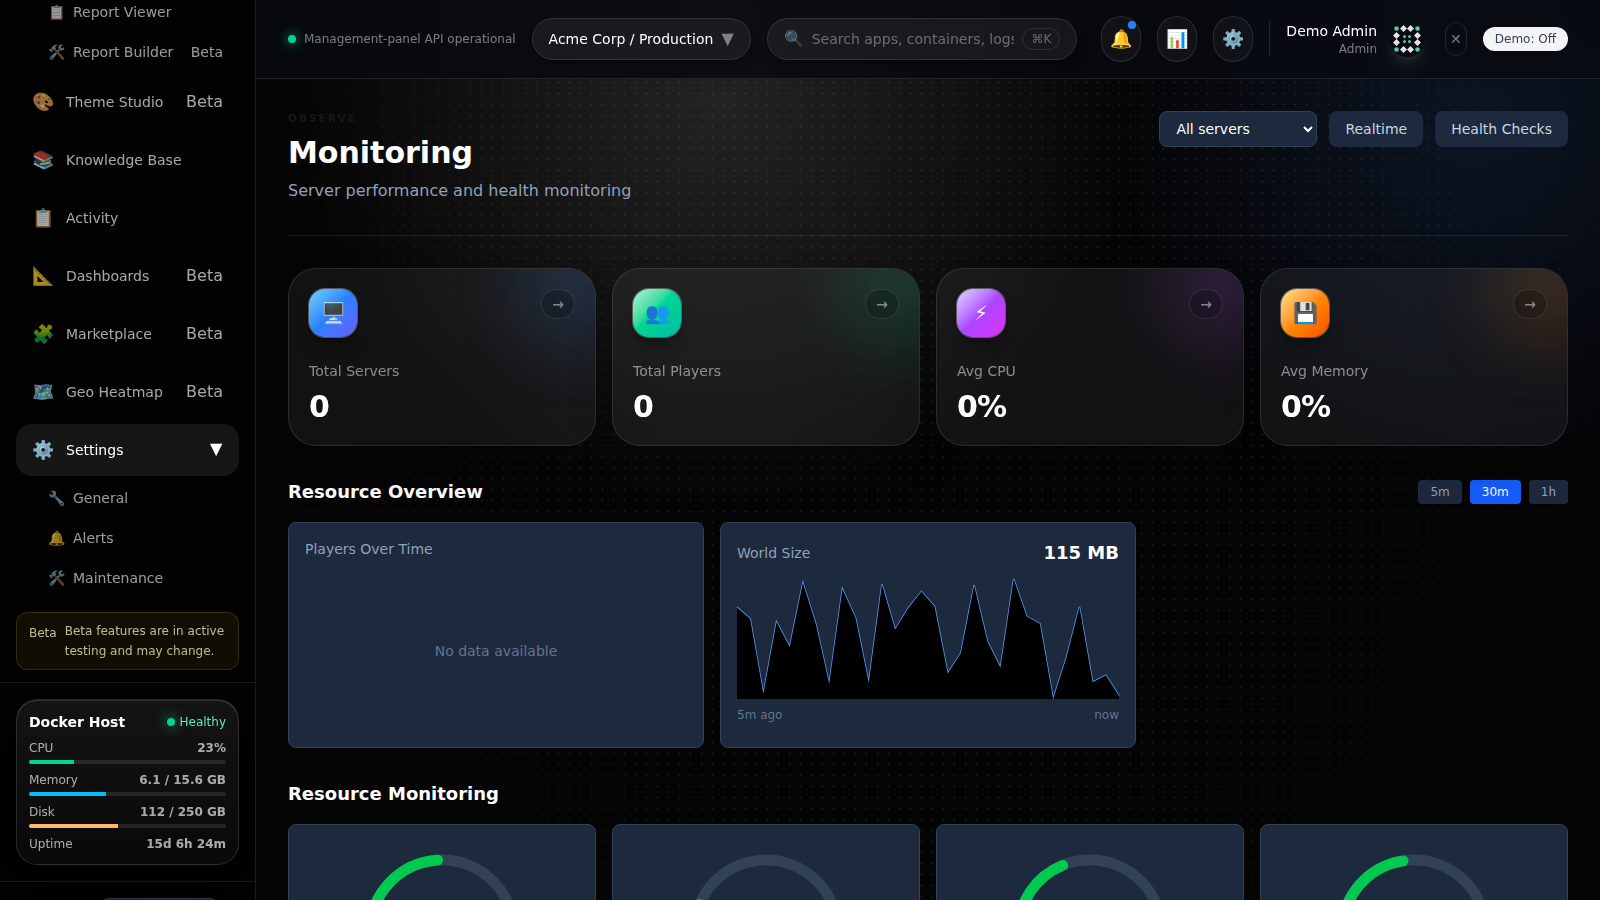
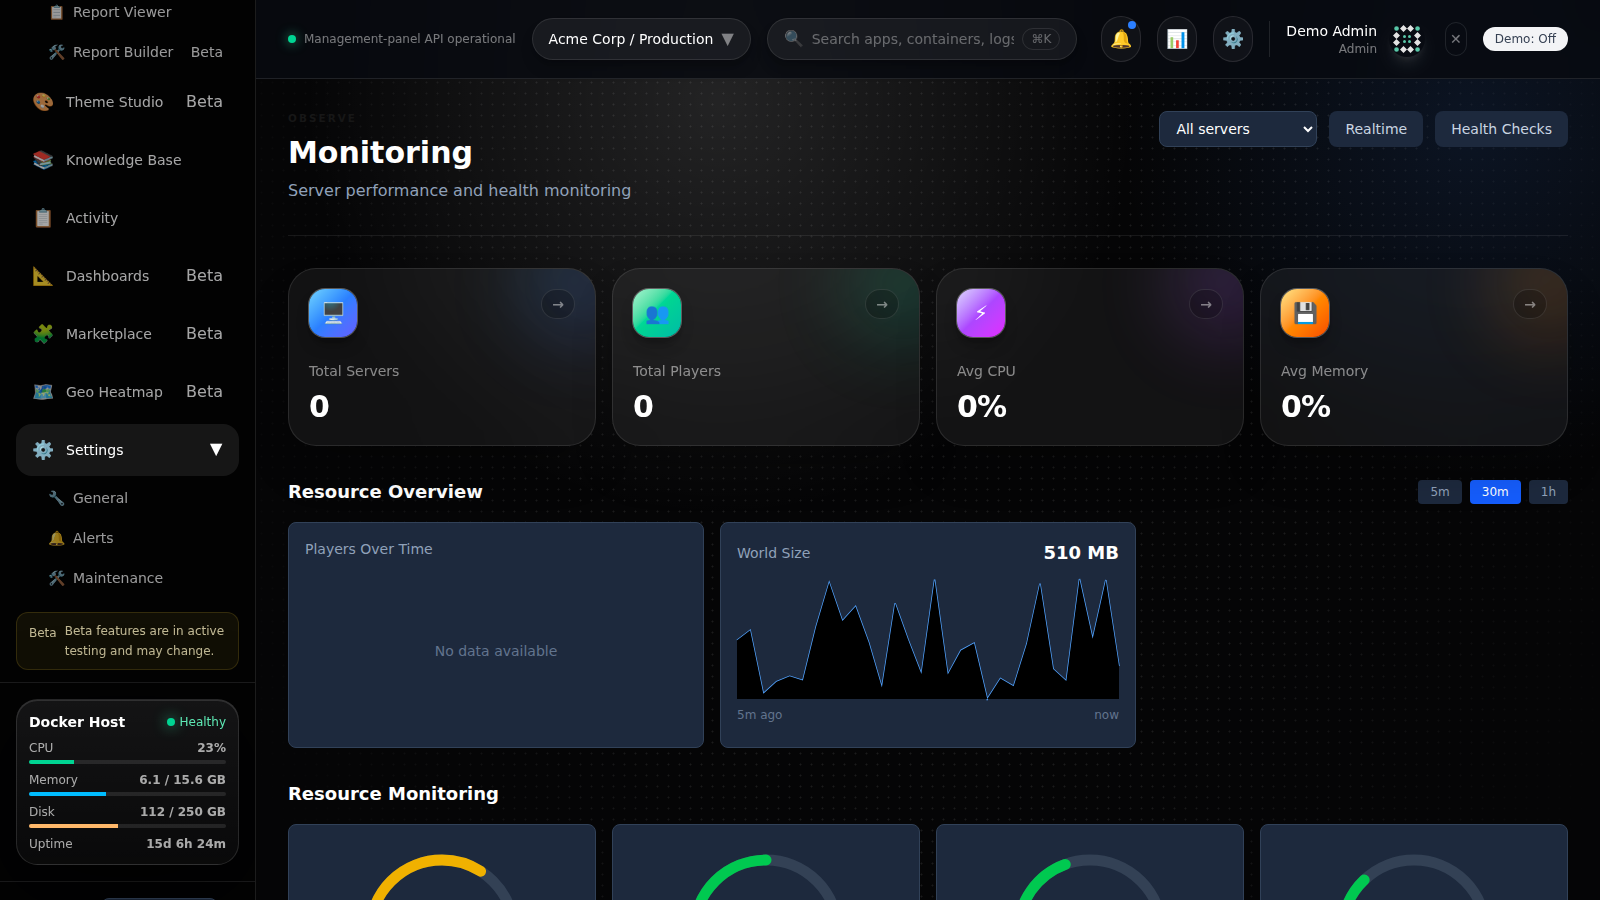
fun(welle-4): Chaos und Simulation mit Prod-Guard (10 Features, neue … (#471)
* fun(welle-4): Chaos und Simulation mit Prod-Guard (10 Features, neue Dateien only)

* docs(screenshots): refresh panel captures [skip ci]

* docs(screenshots): refresh panel captures [skip ci]

---------

diff --git a/services/management-panel/src/fun/wave4.ts b/services/management-panel/src/fun/wave4.ts
@@ -1,0 +1,22 @@
+// Welle 4: Widget-Deskriptoren (reine Daten, kein JSX -> build-sicher).
+// HINWEIS: Alle Chaos-Aktionen brauchen serverseitig umgebung in {sandbox, staging}.
+
+export interface FunWidget {
+  key: string;
+  title: string;
+  endpoint: string;
+  flag: string;
+  prodSafe: boolean;
+}
+
+export const WAVE4_WIDGETS: FunWidget[] = [
+  { key: "chaos-kartenspiel", title: "Chaos-Kartenspiel", endpoint: "/api/fun/chaos-karte", flag: "fun.welle4.chaos", prodSafe: false },
+  { key: "branduebung", title: "Brandübung mit Stoppuhr", endpoint: "/api/fun/branduebung", flag: "fun.welle4.brand", prodSafe: false },
+  { key: "was-waere-wenn", title: "Was-wäre-wenn-Regler", endpoint: "/api/fun/waswaerewenn", flag: "fun.welle4.simulation", prodSafe: true },
+  { key: "domino-vorschau", title: "Domino-Vorschau", endpoint: "/api/fun/domino", flag: "fun.welle4.domino", prodSafe: true },
+  { key: "schwarzer-kasten", title: "Schwarzer-Kasten-Modus", endpoint: "/api/fun/flugschreiber", flag: "fun.welle4.flugschreiber", prodSafe: true },
+];
+
+export const WAVE4_FLAGS: Record<string, boolean> = Object.fromEntries(
+  WAVE4_WIDGETS.map((w) => [w.flag, false]),
+);

diff --git a/services/orchestrator-agent/fun_wave4.py b/services/orchestrator-agent/fun_wave4.py
@@ -1,0 +1,95 @@
+"""Welle 4: Chaos & Simulation (Features 31-40).
+
+Harte Regel: Chaos-Endpunkte verweigern `prod` SERVERSEITIG, nicht nur im UI.
+Erlaubte Umgebungen: sandbox, staging. Alles andere -> ChaosVerweigert.
+"""
+
+import random
+
+WAVE = 4
+FEATURES = [
+    "chaos-kartenspiel",
+    "branduebung",
+    "was-waere-wenn",
+    "geister-deploy",
+    "zombie-stunde",
+    "rueckspul-knopf",
+    "last-geburtstagsparty",
+    "toter-mann-schalter",
+    "domino-vorschau",
+    "schwarzer-kasten",
+]
+
+ERLAUBT = {"sandbox", "staging"}
+
+
+class ChaosVerweigert(Exception):
+    """Prod ist fuer Chaos tabu. Punkt."""
+
+
+def _check(umgebung: str) -> str:
+    if umgebung not in ERLAUBT:
+        raise ChaosVerweigert(f"Chaos in '{umgebung}' verweigert (erlaubt: {sorted(ERLAUBT)})")
+    return umgebung
+
+
+CHAOS_KARTEN = ["kill-einen-pod", "+200ms-latenz", "dns-wackelt", "disk-wird-voll", "oom-roulette"]
+
+
+def chaos_karte_ziehen(umgebung: str, seed: int = 0) -> dict:
+    """Feature 31: Chaos-Karte ziehen. Nur sandbox/staging."""
+    _check(umgebung)
+    karte = CHAOS_KARTEN[(seed or random.randint(0, 10**6)) % len(CHAOS_KARTEN)]
+    return {"umgebung": umgebung, "karte": karte, "abbruch_knopf": "gross-und-rot"}
+
+
+def branduebung(umgebung: str, entdeckt_sek: int, gefixt_sek: int) -> dict:
+    """Feature 32: Mini-Chaos in Staging mit Score."""
+    _check(umgebung)
+    score = max(0, 100 - entdeckt_sek - gefixt_sek // 2)
+    return {"umgebung": umgebung, "entdeckt_sek": entdeckt_sek,
+            "gefixt_sek": gefixt_sek, "score": score}
+
+
+def was_waere_wenn(traffic_faktor: float, db_weg: bool, az_weg: bool, basis_p95: float) -> dict:
+    """Feature 33: grobe Simulation aus echten Metriken. Klar als Schaetzung gelabelt."""
+    p95 = basis_p95 * traffic_faktor * (3 if db_weg else 1) * (1.5 if az_weg else 1)
+    return {"geschaetzt_p95_ms": round(p95, 1), "schaetzung": True, "kein_eingriff": True}
+
+
+def domino_vorschau(graph: dict, start: str) -> dict:
+    """Feature 39: animierte Vorschau, was kaskadiert mitfaellt."""
+    gesehen, stapel, kaskade = set(), [start], []
+    while stapel:
+        knoten = stapel.pop()
+        if knoten in gesehen:
+            continue
+        gesehen.add(knoten)
+        kaskade.append(knoten)
+        stapel.extend(graph.get(knoten, []))
+    return {"start": start, "kaskade": kaskade,
+            "pflicht_bestaetigung": len(kaskade) > 3}
+
+
+def schwarzer_kasten(ereignisse: list) -> dict:
+    """Feature 40: Incident-Flugschreiber (Hash + Signatur, spaeter auslesbar)."""
+    import hashlib
+
+    roh = repr(sorted(repr(e) for e in ereignisse)).encode()
+    return {"ereignisse": len(ereignisse),
+            "siegel": hashlib.sha256(roh).hexdigest()[:16], "versiegelt": True}
+
+
+def register_fun_wave4(app) -> None:
+    """Attach routes mit serverseitigem Prod-Guard (optional wiring)."""
+    from aiohttp import web
+
+    async def _karte(request: web.Request) -> web.Response:
+        q = request.rel_url.query
+        try:
+            return web.json_response(chaos_karte_ziehen(
+                q.get("umgebung", ""), int(q.get("seed", 0) or 0)))
+        except ChaosVerweigert as exc:
+            return web.json_response({"error": str(exc)}, status=403)
+
+    app.router.add_get("/api/fun/chaos-karte", _karte)

diff --git a/cli/ipilot/commands/fun_wave4.py b/cli/ipilot/commands/fun_wave4.py
@@ -1,0 +1,39 @@
+"""Welle-4 CLI: Chaos nur in Sandbox/Staging (Prod wird verweigert)."""
+
+import typer
+
+app = typer.Typer(help="Welle 4: Chaos & Simulation (nie Prod).")
+
+
+@app.command()
+def karte(umgebung: str = "sandbox", seed: int = 0):
+    """Chaos-Karte ziehen (prod wird verweigert)."""
+    import sys
+
+    sys.path.insert(0, "services/orchestrator-agent")
+    from fun_wave4 import ChaosVerweigert, chaos_karte_ziehen as _k
+
+    try:
+        r = _k(umgebung, seed)
+        typer.echo(f"[{r['umgebung']}] Karte: {r['karte']} (Abbruch: {r['abbruch_knopf']})")
+    except ChaosVerweigert as exc:
+        typer.echo(f"Verweigert: {exc}", err=True)
+        raise typer.Exit(code=3)
+
+
+@app.command()
+def domino(start: str = "api", kanten: str = "api:worker,worker:db,api:cache"):
+    """Domino-Vorschau: was faellt mit, wenn `start` faellt?"""
+    import sys
+
+    sys.path.insert(0, "services/orchestrator-agent")
+    from fun_wave4 import domino_vorschau as _d
+
+    graph: dict = {}
+    for k in kanten.split(","):
+        a, b = k.split(":")
+        graph.setdefault(a.strip(), []).append(b.strip())
+    r = _d(graph, start)
+    typer.echo(" -> ".join(r["kaskade"]))
+    if r["pflicht_bestaetigung"]:
+        typer.echo("Pflicht-Bestaetigung noetig (>3 Betroffene).")
